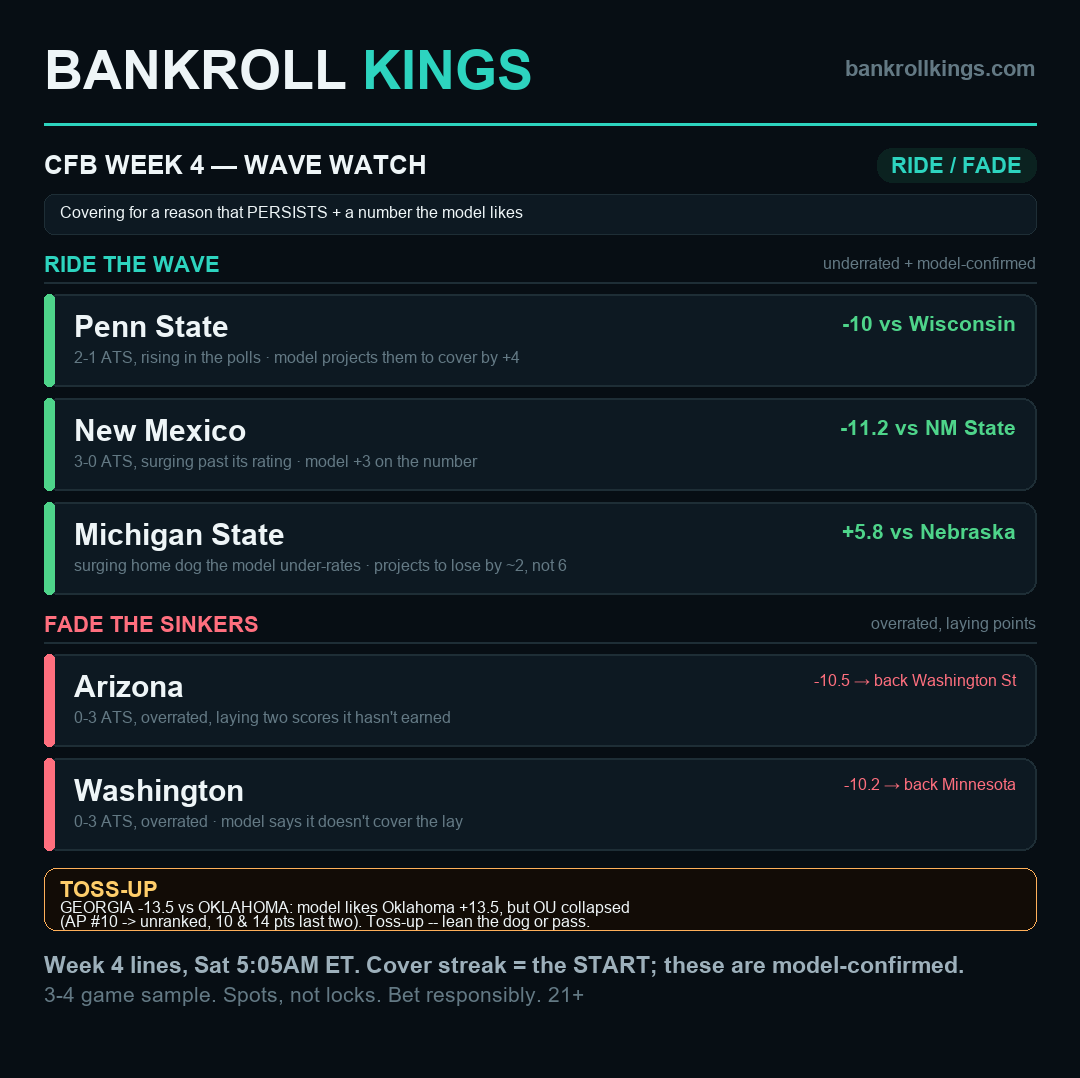
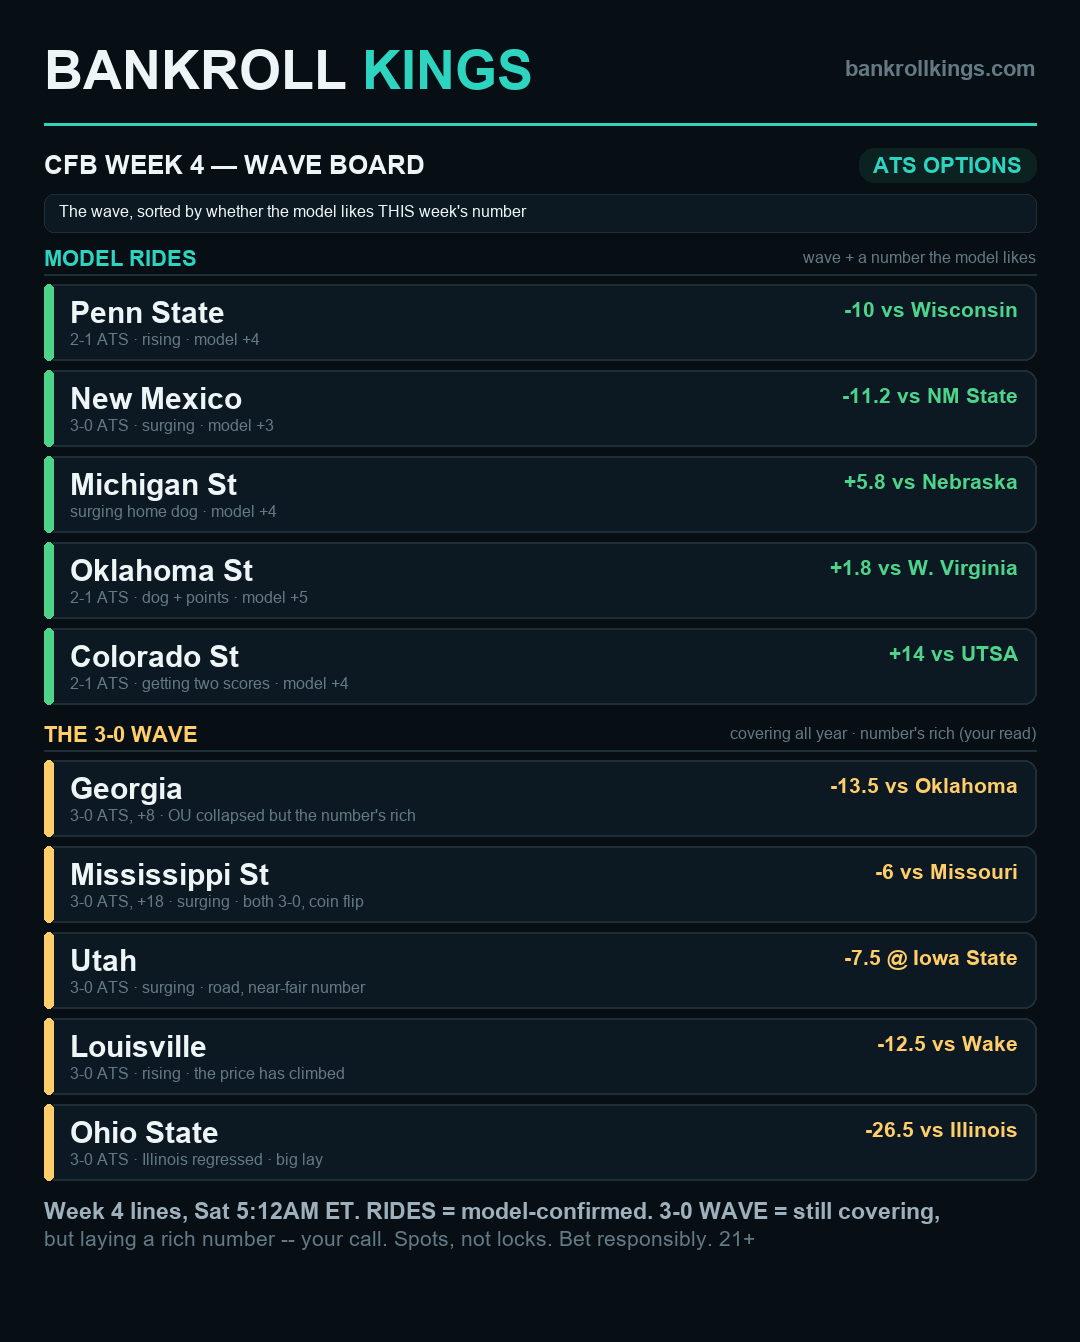
weekly_cards: rebuild CFB Wave card as a full board (rides + the 3-0 wave)
The 3-play card benched the teams Darrel actually wanted. Rebuilt as a 10-option
board: MODEL RIDES (wave + a number the model likes -- Penn State, New Mexico,
Michigan St, Oklahoma St, Colorado St) and THE 3-0 WAVE (the undefeated-ATS teams
laying bigger numbers -- Georgia, Miss State, Utah, Louisville, Ohio State), each
honestly tagged (model-confirmed vs still-covering-but-the-price-is-rich). A real
menu, not a filtered 3-pick.

diff --git a/marketing/generators/weekly_cards.py b/marketing/generators/weekly_cards.py
@@ -761,76 +761,55 @@ ATLGB_PERIOD = ("1st Half Team Total", "UNDER 20.5", "under",
                 "both run D's top-5 adj — slow, run-stuffed start; the total needs passing, which takes time to warm up")
 
 
-# CFB Wave Watch — Week 4. Rides = ATS coverers that are underrated (line lagging) AND
-# the model still likes this week's number. Fades = overrated teams laying points they
-# can't cover -> back the dog. (team, pick, kind, why)
+# CFB Wave Watch — Week 4. Full board of options. (team, pick, why)
+# RIDES: ATS coverers the model also likes this week. WAVE: the undefeated (3-0 ATS)
+# teams laying bigger numbers -- covering all year, but the model says the price is rich.
 CFBWAVE_RIDES = [
-    ("Penn State", "-10 vs Wisconsin", "over",
-     "2-1 ATS, rising in the polls · model projects them to cover by +4"),
-    ("New Mexico", "-11.2 vs NM State", "over",
-     "3-0 ATS, surging past its rating · model +3 on the number"),
-    ("Michigan State", "+5.8 vs Nebraska", "under",
-     "surging home dog the model under-rates · projects to lose by ~2, not 6"),
+    ("Penn State", "-10 vs Wisconsin", "2-1 ATS · rising · model +4"),
+    ("New Mexico", "-11.2 vs NM State", "3-0 ATS · surging · model +3"),
+    ("Michigan St", "+5.8 vs Nebraska", "surging home dog · model +4"),
+    ("Oklahoma St", "+1.8 vs W. Virginia", "2-1 ATS · dog + points · model +5"),
+    ("Colorado St", "+14 vs UTSA", "2-1 ATS · getting two scores · model +4"),
 ]
-CFBWAVE_FADES = [
-    ("Arizona", "-10.5 → back Washington St", "fade",
-     "0-3 ATS, overrated, laying two scores it hasn't earned"),
-    ("Washington", "-10.2 → back Minnesota", "fade",
-     "0-3 ATS, overrated · model says it doesn't cover the lay"),
+CFBWAVE_WAVE = [
+    ("Georgia", "-13.5 vs Oklahoma", "3-0 ATS, +8 · OU collapsed but the number's rich"),
+    ("Mississippi St", "-6 vs Missouri", "3-0 ATS, +18 · surging · both 3-0, coin flip"),
+    ("Utah", "-7.5 @ Iowa State", "3-0 ATS · surging · road, near-fair number"),
+    ("Louisville", "-12.5 vs Wake", "3-0 ATS · rising · the price has climbed"),
+    ("Ohio State", "-26.5 vs Illinois", "3-0 ATS · Illinois regressed · big lay"),
 ]
-CFBWAVE_TOSS = ("GEORGIA -13.5 vs OKLAHOMA: model likes Oklahoma +13.5, but OU collapsed",
-                "(AP #10 -> unranked, 10 & 14 pts last two). Toss-up -- lean the dog or pass.")
 
 
 def card_cfb_wave(week, out):
-    """CFB Wave Watch card: this week's model-confirmed rides (underrated ATS coverers)
-    and fades (overrated teams laying points), casino-ready."""
-    kcol = {'over': GREEN, 'under': GREEN, 'fade': RED}
+    """CFB Wave board: model-confirmed rides + the undefeated (3-0 ATS) wave laying
+    bigger numbers, honestly tagged. A real menu of options, casino-ready."""
     top = 250
-    ph = 92
-    H = top + 54 + len(CFBWAVE_RIDES) * (ph + 12) + 46 + len(CFBWAVE_FADES) * (ph + 12) + 92 + 116
+    ph = 76
+    def section(c, d, y, title, sub, col, rows, accent):
+        c.text(M, y, title, F['col'], col)
+        c.text(W - M, y + 2, sub, F['de'], FAINT, right=True)
+        y += 28; d.line([(M, y), (W - M, y)], fill=LINE, width=2); y += 10
+        for team, pick, why in rows:
+            d.rounded_rectangle([(M, y), (W - M, y + ph)], radius=12, fill=PANEL, outline=LINE, width=2)
+            d.rounded_rectangle([(M, y), (M + 9, y + ph)], radius=5, fill=accent)
+            c.text(M + 26, y + 11, team, F['blk'], INK)
+            c.text(W - M - 18, y + 13, pick, F['pl'], accent, right=True)
+            c.text(M + 26, y + 46, why, F['de'], FAINT)
+            y += ph + 10
+        return y + 8
+
+    H = top + 44 + (28 + 10 + len(CFBWAVE_RIDES) * (ph + 10) + 8) + (28 + 10 + len(CFBWAVE_WAVE) * (ph + 10) + 8) + 96
     c = Card(H); d = c.d
-    y = c.header(f"CFB {week.upper()} — WAVE WATCH", chip="RIDE / FADE")
+    y = c.header(f"CFB {week.upper()} — WAVE BOARD", chip="ATS OPTIONS")
+    d.rounded_rectangle([(M, y), (W - M, y + 38)], radius=10, fill=PANEL, outline=LINE, width=1)
+    c.text(M + 15, y + 8, "The wave, sorted by whether the model likes THIS week's number", F['de'], INK)
+    y += 52
 
-    d.rounded_rectangle([(M, y), (W - M, y + 40)], radius=10, fill=PANEL, outline=LINE, width=1)
-    c.text(M + 16, y + 9, "Covering for a reason that PERSISTS + a number the model likes", F['de'], INK)
-    y += 58
+    y = section(c, d, y, "MODEL RIDES", "wave + a number the model likes", CY, CFBWAVE_RIDES, GREEN)
+    y = section(c, d, y, "THE 3-0 WAVE", "covering all year · number's rich (your read)", GOLD, CFBWAVE_WAVE, GOLD)
 
-    # Rides
-    c.text(M, y, "RIDE THE WAVE", F['col'], CY)
-    c.text(W - M, y + 2, "underrated + model-confirmed", F['de'], FAINT, right=True)
-    y += 30; d.line([(M, y), (W - M, y)], fill=LINE, width=2); y += 12
-    for team, pick, kind, why in CFBWAVE_RIDES:
-        d.rounded_rectangle([(M, y), (W - M, y + ph)], radius=14, fill=PANEL, outline=LINE, width=2)
-        d.rounded_rectangle([(M, y), (M + 10, y + ph)], radius=6, fill=GREEN)
-        c.text(M + 30, y + 15, team, F['blk'], INK)
-        c.text(W - M - 20, y + 17, pick, F['pl'], GREEN, right=True)
-        c.text(M + 30, y + 54, why, F['de'], FAINT)
-        y += ph + 12
-    y += 6
-
-    # Fades
-    c.text(M, y, "FADE THE SINKERS", F['col'], RED)
-    c.text(W - M, y + 2, "overrated, laying points", F['de'], FAINT, right=True)
-    y += 30; d.line([(M, y), (W - M, y)], fill=LINE, width=2); y += 12
-    for team, pick, kind, why in CFBWAVE_FADES:
-        d.rounded_rectangle([(M, y), (W - M, y + ph)], radius=14, fill=PANEL, outline=LINE, width=2)
-        d.rounded_rectangle([(M, y), (M + 10, y + ph)], radius=6, fill=RED)
-        c.text(M + 30, y + 15, team, F['blk'], INK)
-        c.text(W - M - 20, y + 17, pick, F['de'], RED, right=True)
-        c.text(M + 30, y + 54, why, F['de'], FAINT)
-        y += ph + 12
-    y += 6
-
-    d.rounded_rectangle([(M, y), (W - M, y + 62)], radius=12,
-                        fill=(255//14, 176//14, 90//14), outline=(255, 176, 90), width=1)
-    c.text(M + 16, y + 9, "TOSS-UP", F['col'], GOLD)
-    c.text(M + 16, y + 30, CFBWAVE_TOSS[0], F['de'], INK)
-    c.text(M + 16, y + 44, CFBWAVE_TOSS[1], F['de'], INK)
-    y += 84
-
-    c.text(M, y, f"Week 4 lines, {_stamp()}. Cover streak = the START; these are model-confirmed.", F['ftb'], DIM); y += 30
-    c.text(M, y, "3-4 game sample. Spots, not locks. Bet responsibly. 21+", F['ft'], FAINT)
+    c.text(M, y, f"Week 4 lines, {_stamp()}. RIDES = model-confirmed. 3-0 WAVE = still covering,", F['ftb'], DIM); y += 28
+    c.text(M, y, "but laying a rich number -- your call. Spots, not locks. Bet responsibly. 21+", F['ft'], FAINT)
     return c.save(out)
 
 
